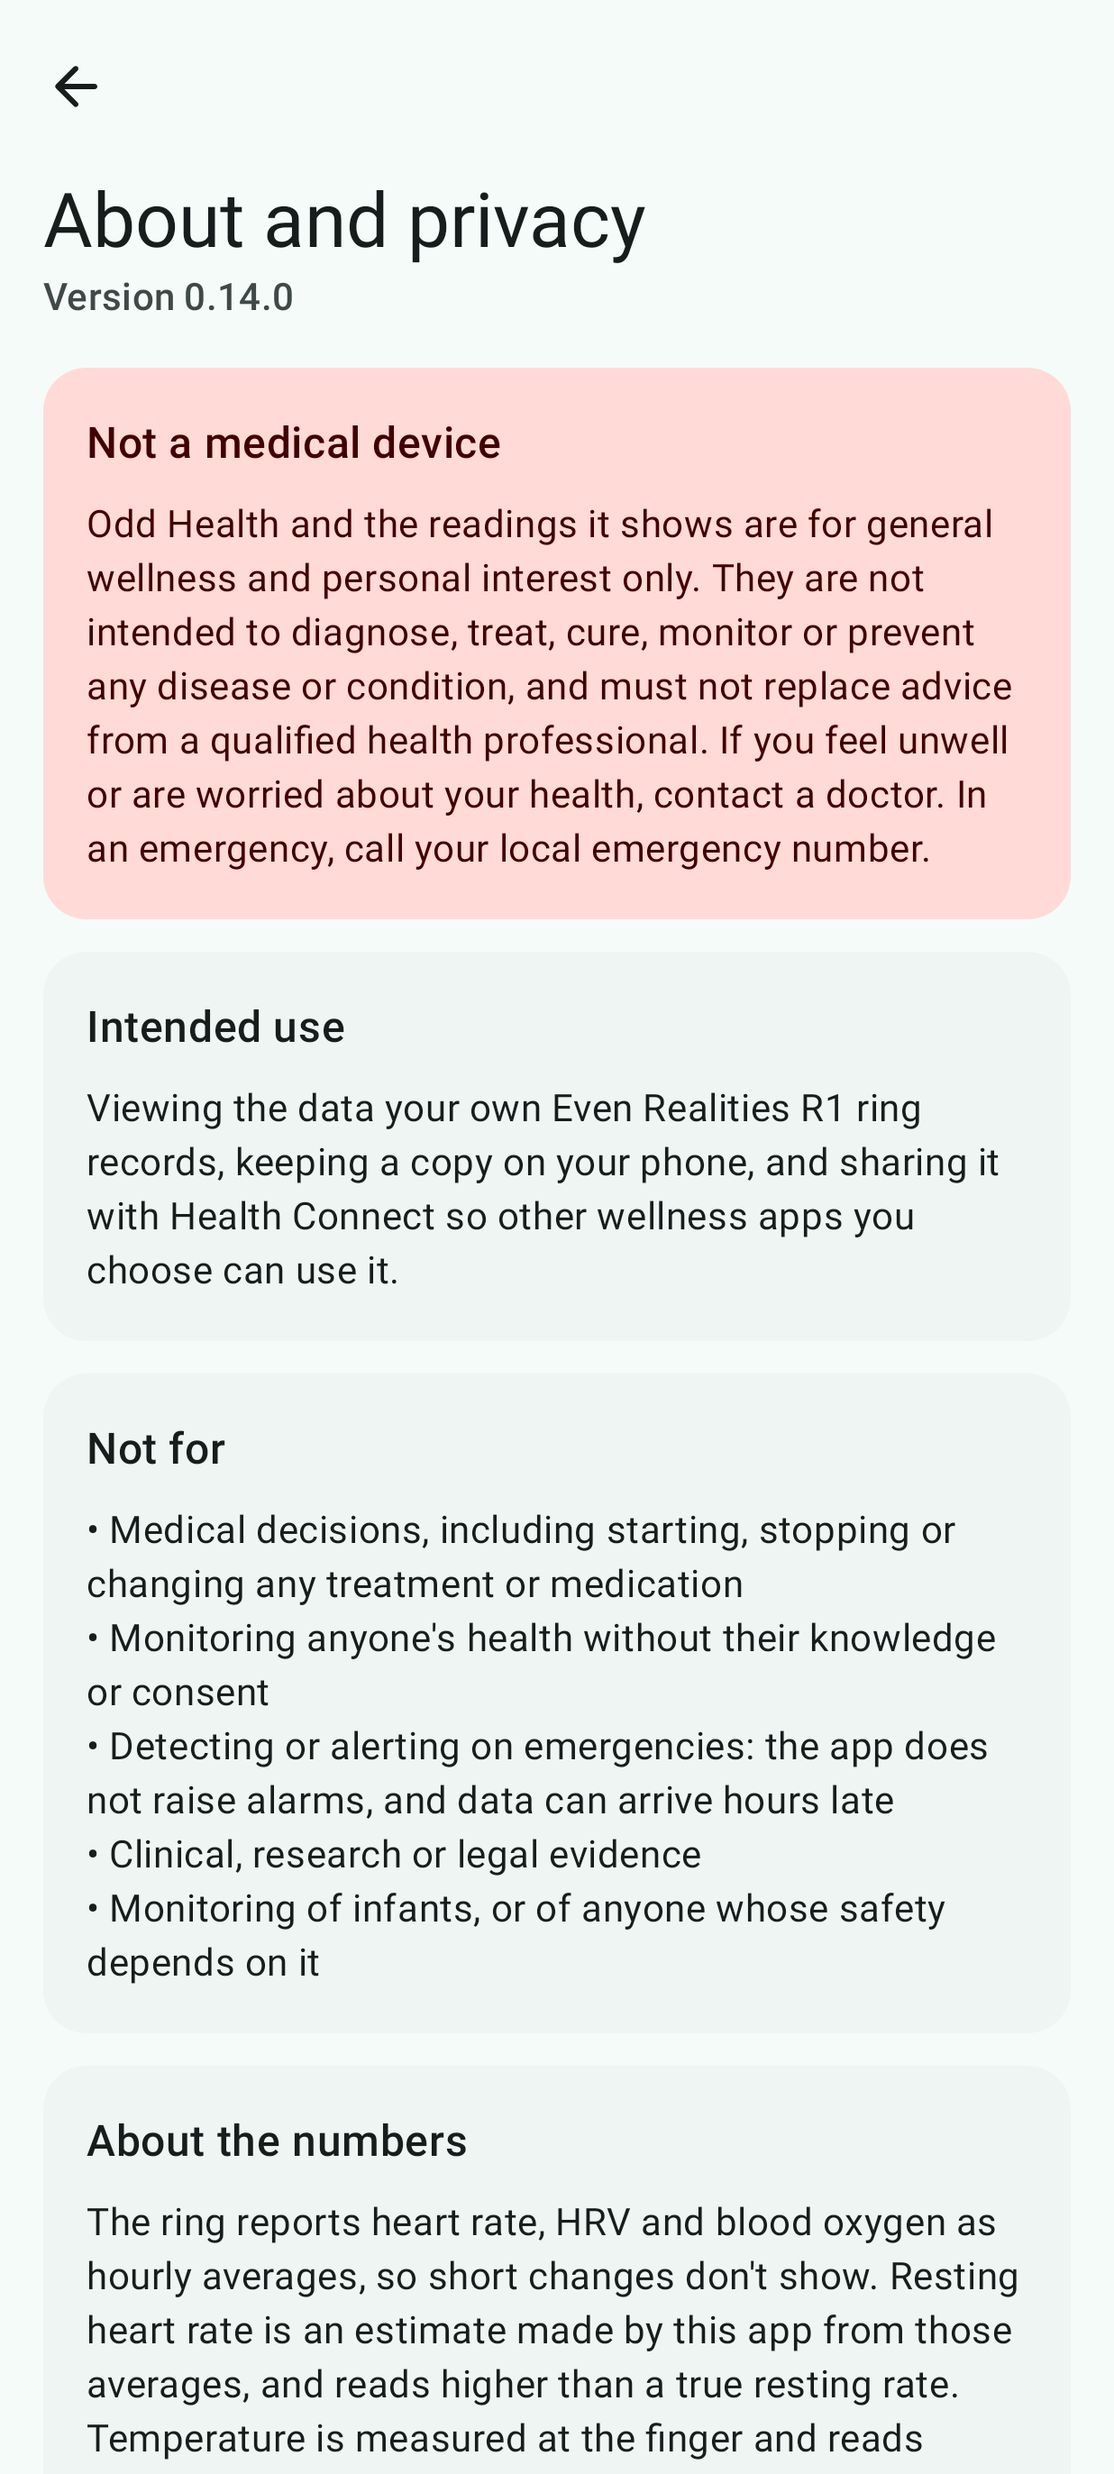
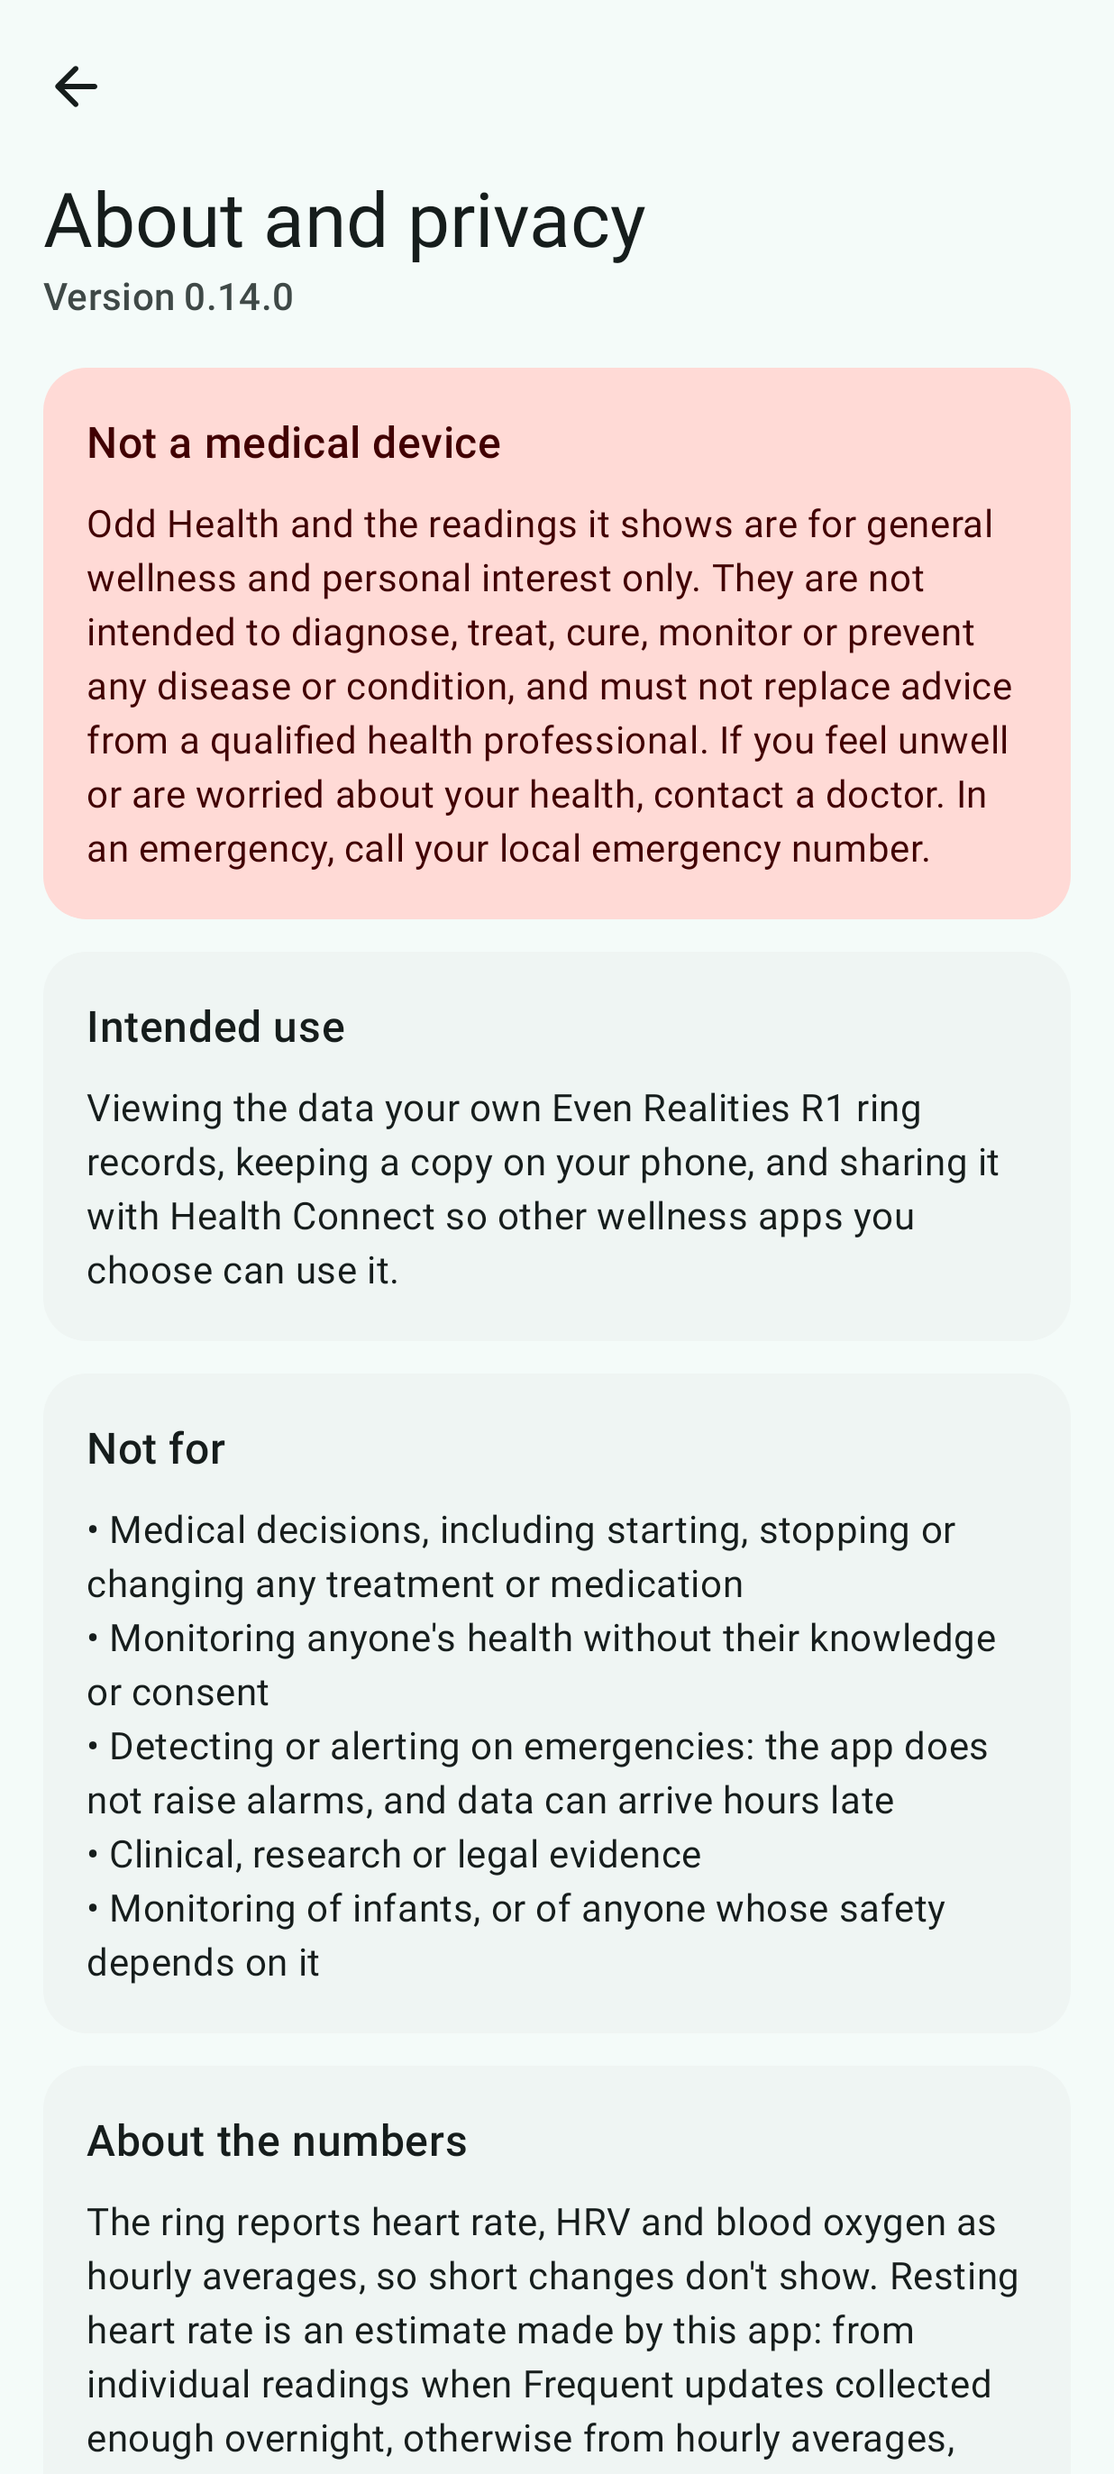
Resting heart rate from individual readings when a night has enough
With Frequent updates on, the ring's ~10-minute readings are stored through
the night. A night with at least 12 of them now gets its resting heart rate
from the lowest average of 3 consecutive readings spanning at most 30
minutes, instead of the lowest hourly average, which runs high. Other nights
keep the hourly method. The estimate records how many readings it used, the
detail screen says which method applied, and saving a reading updates its
night. Disclaimer, user guide, About text and changelog updated.

Claude-Session: https://claude.ai/code/session_01MuCkd15GX21PUvAAYG1tcR

Changed region(s): [[0.0615, 0.929, 0.8916, 0.9909]]

diff --git a/android/core/src/main/kotlin/dev/oddhealth/core/model/RestingHeartRate.kt b/android/core/src/main/kotlin/dev/oddhealth/core/model/RestingHeartRate.kt
@@ -6,8 +6,9 @@ import java.time.ZoneOffset
 
 /**
  * Resting heart rate for one night. The ring does not report one, so this is
- * our estimate: the lowest hourly average heart rate during the main sleep.
- * [start] is the time the sleep ended.
+ * our estimate (see [RestingHeartRateEstimate]). [start] is the time the sleep
+ * ended. [readings] is how many individual readings it came from; 0 means it
+ * came from hourly averages.
  */
 data class RestingHeartRate(
     override val start: Instant,
@@ -15,6 +16,7 @@ data class RestingHeartRate(
     val bpm: Int,
     override val source: DataSource,
     override val version: Long,
+    val readings: Int = 0,
 ) : HealthRecord {
     override val kind get() = RecordKind.RESTING_HEART_RATE
     override val end: Instant get() = start
@@ -24,9 +26,29 @@ object RestingHeartRateEstimate {
     /** Shorter sleeps (naps) don't give a resting heart rate. */
     val MIN_SLEEP: Duration = Duration.ofHours(3)
 
-    /** An hour counts if at least half of it falls inside the sleep. */
-    fun forNight(night: SleepSession, heartRate: List<HourlyVital>): RestingHeartRate? {
+    /** Readings needed during the night to use them instead of hourly averages. */
+    const val MIN_READINGS = 12
+
+    /** Readings averaged together, and the most time they may span (no gaps). */
+    const val WINDOW = 3
+    val WINDOW_SPAN: Duration = Duration.ofMinutes(30)
+
+    /**
+     * With enough individual readings during the main sleep (from Frequent
+     * updates, about every 10 minutes): the lowest average of [WINDOW]
+     * consecutive readings within [WINDOW_SPAN]. Averaging a few readings keeps
+     * one odd reading from setting the result.
+     *
+     * Otherwise: the lowest hourly average during the sleep, which reads higher
+     * because each hour mixes calm and restless minutes.
+     */
+    fun forNight(
+        night: SleepSession,
+        heartRate: List<HourlyVital>,
+        readings: List<HeartRateReading> = emptyList(),
+    ): RestingHeartRate? {
         if (Duration.between(night.start, night.end) < MIN_SLEEP) return null
+        fromReadings(night, readings)?.let { return it }
         val hours = heartRate.filter {
             it.kind == RecordKind.HEART_RATE_HOUR && it.avg > 0 &&
                 overlapSeconds(it, night) >= 1800
@@ -38,6 +60,26 @@ object RestingHeartRateEstimate {
             bpm = lowest.avg,
             source = night.source,
             version = maxOf(night.version, hours.maxOf { it.version }),
+        )
+    }
+
+    private fun fromReadings(night: SleepSession, all: List<HeartRateReading>): RestingHeartRate? {
+        val readings = all
+            .filter { it.bpm > 0 && it.start >= night.start && it.start <= night.end }
+            .distinctBy { it.start }
+            .sortedBy { it.start }
+        if (readings.size < MIN_READINGS) return null
+        val lowest = readings.windowed(WINDOW)
+            .filter { Duration.between(it.first().start, it.last().start) <= WINDOW_SPAN }
+            .minOfOrNull { w -> w.sumOf { it.bpm }.toDouble() / w.size }
+            ?: return null
+        return RestingHeartRate(
+            start = night.end,
+            zone = night.zone,
+            bpm = Math.round(lowest).toInt(),
+            source = night.source,
+            version = maxOf(night.version, readings.maxOf { it.version }),
+            readings = readings.size,
         )
     }
 

diff --git a/android/app/src/main/kotlin/dev/oddhealth/app/data/HealthRepository.kt b/android/app/src/main/kotlin/dev/oddhealth/app/data/HealthRepository.kt
@@ -1,6 +1,7 @@
 package dev.oddhealth.app.data
 
 import dev.oddhealth.core.model.HealthRecord
+import dev.oddhealth.core.model.HeartRateReading
 import dev.oddhealth.core.model.HourlyVital
 import dev.oddhealth.core.model.RecordKind
 import dev.oddhealth.core.model.RestingHeartRateEstimate
@@ -31,15 +32,24 @@ class HealthRepository(private val dao: RecordDao) : SyncLedger, SyncContext {
         val estimates = dao.byKindOnce(RecordKind.SLEEP_SESSION.id).map(RecordCodec::fromRow).filterIsInstance<SleepSession>()
             .filter { it.end.epochSecond !in have }
             .mapNotNull { night ->
-                val hours = dao.overlapping(RecordKind.HEART_RATE_HOUR.id, night.start.epochSecond, night.end.epochSecond)
-                    .map(RecordCodec::fromRow).filterIsInstance<HourlyVital>()
-                RestingHeartRateEstimate.forNight(night, hours)
+                estimate(night)
             }
         return if (estimates.isEmpty()) 0 else dao.upsertNewer(estimates.map(RecordCodec::toRow))
     }
 
+    private suspend fun estimate(night: SleepSession) = RestingHeartRateEstimate.forNight(
+        night,
+        dao.overlapping(RecordKind.HEART_RATE_HOUR.id, night.start.epochSecond, night.end.epochSecond)
+            .map(RecordCodec::fromRow).filterIsInstance<HourlyVital>(),
+        // Readings are instants (end == start); widen by a second so one at the very start counts.
+        dao.overlapping(RecordKind.HEART_RATE_READING.id, night.start.epochSecond - 1, night.end.epochSecond + 1)
+            .map(RecordCodec::fromRow).filterIsInstance<HeartRateReading>(),
+    )
+
     private suspend fun updateRestingHeartRate(saved: List<HealthRecord>) {
-        val relevant = saved.filter { it.kind == RecordKind.SLEEP_SESSION || it.kind == RecordKind.HEART_RATE_HOUR }
+        val relevant = saved.filter {
+            it.kind == RecordKind.SLEEP_SESSION || it.kind == RecordKind.HEART_RATE_HOUR || it.kind == RecordKind.HEART_RATE_READING
+        }
         if (relevant.isEmpty()) return
         // Nights touched by any saved sleep or heart-rate hour, found per day to keep queries small.
         val nights = HashMap<String, SleepSession>()
@@ -48,13 +58,11 @@ class HealthRepository(private val dao: RecordDao) : SyncLedger, SyncContext {
             val to = group.maxOf { it.end }.plusSeconds(86_400).epochSecond
             dao.overlapping(RecordKind.SLEEP_SESSION.id, from, to).map(RecordCodec::fromRow)
                 .filterIsInstance<SleepSession>()
-                .filter { n -> group.any { it.start < n.end && it.end > n.start } }
+                .filter { n -> group.any { it.start <= n.end && it.end >= n.start } }
                 .forEach { nights[it.key] = it }
         }
         val estimates = nights.values.mapNotNull { night ->
-            val hours = dao.overlapping(RecordKind.HEART_RATE_HOUR.id, night.start.epochSecond, night.end.epochSecond)
-                .map(RecordCodec::fromRow).filterIsInstance<HourlyVital>()
-            RestingHeartRateEstimate.forNight(night, hours)
+            estimate(night)
         }
         if (estimates.isNotEmpty()) dao.upsertNewer(estimates.map(RecordCodec::toRow))
     }

diff --git a/android/core/src/test/kotlin/dev/oddhealth/core/CoreTest.kt b/android/core/src/test/kotlin/dev/oddhealth/core/CoreTest.kt
@@ -134,6 +134,34 @@ class CoreTest {
     }
 
     @Test
+    fun restingHeartRateUsesReadingsWhenThereAreEnough() {
+        val start = Instant.parse("2026-11-17T07:00:00Z")
+        val night = SleepSession(start, start.plusSeconds(6 * 3600), cst, emptyList(), null, null, DataSource.RING, 1)
+        val hours = (0L..5L).map { HourlyVital(RecordKind.HEART_RATE_HOUR, start.plusSeconds(it * 3600), cst, 50, 62, 75, DataSource.RING, 1) }
+        fun reading(i: Int, bpm: Int) = HeartRateReading(start.plusSeconds(i * 585L), cst, bpm, DataSource.RING, 2)
+        // 36 readings ~10 minutes apart; one low outlier (40) and a calm stretch of three at 52, 53, 54.
+        val readings = (0 until 36).map { i ->
+            when (i) {
+                5 -> reading(i, 40)
+                20 -> reading(i, 52)
+                21 -> reading(i, 53)
+                22 -> reading(i, 54)
+                else -> reading(i, 60)
+            }
+        }
+        val rhr = dev.oddhealth.core.model.RestingHeartRateEstimate.forNight(night, hours, readings)!!
+        assertEquals(53 to 36, rhr.bpm to rhr.readings) // the outlier alone doesn't win
+
+        // Too few readings: back to hourly averages.
+        val few = dev.oddhealth.core.model.RestingHeartRateEstimate.forNight(night, hours, readings.take(8))!!
+        assertEquals(62 to 0, few.bpm to few.readings)
+
+        // Readings with gaps over 30 minutes between every one: no valid window, hourly again.
+        val sparse = (0 until 12).map { HeartRateReading(start.plusSeconds(it * 1800L), cst, 50, DataSource.RING, 2) }
+        assertEquals(0, dev.oddhealth.core.model.RestingHeartRateEstimate.forNight(night, hours, sparse)!!.readings)
+    }
+
+    @Test
     fun skinBaselineIsMedianOfEarlierNights() {
         fun night(day: Long, c: Double) =
             SkinTemperature(Instant.ofEpochSecond(day * 86400), Instant.ofEpochSecond(day * 86400 + 28800), cst, c, DataSource.RING, 1)

diff --git a/android/app/src/main/kotlin/dev/oddhealth/app/data/RecordCodec.kt b/android/app/src/main/kotlin/dev/oddhealth/app/data/RecordCodec.kt
@@ -24,7 +24,7 @@ import java.time.ZoneOffset
  * | activity        | steps   | active kcal| total kcal|         |                         |
  * | sleep           | score+1 | effic.+1   |           |         | stage:startSec:endSec;… |
  * | skin temp       |         |            |           | celsius |                         |
- * | resting HR      | bpm     |            |           |         |                         |
+ * | resting HR      | bpm     | readings   |           |         |                         |
  *
  * Score and efficiency are stored plus one so 0 can mean "none".
  */
@@ -41,7 +41,7 @@ object RecordCodec {
                 text = r.stages.joinToString(";") { "${it.type.ordinal}:${it.start.epochSecond}:${it.end.epochSecond}" },
             )
             is SkinTemperature -> base.copy(real = r.celsius)
-            is RestingHeartRate -> base.copy(a = r.bpm)
+            is RestingHeartRate -> base.copy(a = r.bpm, b = r.readings)
         }
     }
 
@@ -66,7 +66,7 @@ object RecordCodec {
                 source = source, version = row.version,
             )
             RecordKind.SKIN_TEMPERATURE -> SkinTemperature(start, end, zone, row.real ?: 0.0, source, row.version)
-            RecordKind.RESTING_HEART_RATE -> RestingHeartRate(start, zone, row.a, source, row.version)
+            RecordKind.RESTING_HEART_RATE -> RestingHeartRate(start, zone, row.a, source, row.version, readings = row.b)
         }
     }
 }

diff --git a/android/app/src/test/kotlin/dev/oddhealth/app/DataTest.kt b/android/app/src/test/kotlin/dev/oddhealth/app/DataTest.kt
@@ -93,6 +93,14 @@ class DataTest {
         repo.save(listOf(HourlyVital(RecordKind.HEART_RATE_HOUR, start.plusSeconds(2 * 3600), cst, 45, 52, 60, DataSource.RING, 3)))
         assertEquals(52, (repo.byKind(RecordKind.RESTING_HEART_RATE).first().single() as dev.oddhealth.core.model.RestingHeartRate).bpm)
         assertEquals(0, repo.backfillRestingHeartRate()) // already has one
+
+        // Readings every ~10 minutes through the night replace the hourly estimate.
+        val readings = (0 until 30).map {
+            dev.oddhealth.core.model.HeartRateReading(start.plusSeconds(it * 585L), cst, if (it in 10..12) 47 else 58, DataSource.RING, 4)
+        }
+        repo.save(readings)
+        val rhr2 = repo.byKind(RecordKind.RESTING_HEART_RATE).first().single() as dev.oddhealth.core.model.RestingHeartRate
+        assertEquals(47 to 30, rhr2.bpm to rhr2.readings)
     }
 
     /** Local check against a real export: ODD_EXPORT=/path/to.zip; prints a summary only. */
@@ -131,7 +139,7 @@ class DataTest {
         override fun steps(n: Int) = "$n"
         override fun stepsUnit() = "steps"
         override fun restingLabel() = "resting"
-        override fun restingDetail() = "est"
+        override fun restingDetail(readings: Int) = "est $readings"
         override fun kcal(n: Int, active: Int) = "$n"
     }
 }

diff --git a/android/app/src/main/kotlin/dev/oddhealth/app/ui/model/Mapping.kt b/android/app/src/main/kotlin/dev/oddhealth/app/ui/model/Mapping.kt
@@ -73,7 +73,8 @@ interface Words {
     fun steps(n: Int): String
     fun stepsUnit(): String
     fun restingLabel(): String
-    fun restingDetail(): String
+    /** [readings]: how many readings the estimate came from; 0 = hourly averages. */
+    fun restingDetail(readings: Int): String
     fun kcal(n: Int, active: Int): String
 }
 
@@ -172,7 +173,7 @@ object UiMapping {
                     vital = v,
                     rows = listOfNotNull(
                         day.resting?.takeIf { metric == Metric.HEART_RATE }?.let {
-                            DetailRow(w.restingLabel(), "${it.bpm} $unit", w.restingDetail(), day.mark(it))
+                            DetailRow(w.restingLabel(), "${it.bpm} $unit", w.restingDetail(it.readings), day.mark(it))
                         },
                     ) + (hourRows + liveRows).sortedByDescending { it.first }.map { it.second },
                     appOnlyNote = if (metric == Metric.HEART_RATE) w.hrNote() else null,

diff --git a/android/app/src/main/kotlin/dev/oddhealth/app/ui/AppViewModel.kt b/android/app/src/main/kotlin/dev/oddhealth/app/ui/AppViewModel.kt
@@ -103,7 +103,8 @@ class AppViewModel(app: Application) : AndroidViewModel(app) {
         override fun steps(n: Int) = s(R.string.n_steps, n)
         override fun stepsUnit() = s(R.string.unit_steps)
         override fun restingLabel() = s(R.string.resting_hr)
-        override fun restingDetail() = s(R.string.resting_hr_detail)
+        override fun restingDetail(readings: Int) =
+            if (readings > 0) s(R.string.resting_hr_detail_readings, readings) else s(R.string.resting_hr_detail)
         override fun kcal(n: Int, active: Int) = s(R.string.kcal_line, n, active)
     }
 

diff --git a/DISCLAIMER.md b/DISCLAIMER.md
@@ -39,9 +39,11 @@ anything this app shows.
 - **Coarse resolution.** The ring stores heart rate, HRV and blood oxygen as
   hourly minimum, average and maximum, and activity in 10-minute blocks.
   Short events do not show.
-- **Estimates.** Resting heart rate is calculated by this app as the lowest
-  hourly average during sleep, so it reads higher than a true resting heart
-  rate. Sleep stages, sleep score and efficiency come from the ring's own
+- **Estimates.** Resting heart rate is calculated by this app, not measured
+  by the ring: the lowest 30-minute average of individual readings during
+  sleep when Frequent updates collected enough of them, otherwise the lowest
+  hourly average, which reads higher. Readings are about 10 minutes apart, so
+  neither is a true resting heart rate. Sleep stages, sleep score and efficiency come from the ring's own
   algorithms, which are not validated by this project.
 - **Finger temperature.** Temperature is measured at the finger, about 1 °C
   below core body temperature, and varies with room temperature and fit. It is

diff --git a/docs/user-guide.md b/docs/user-guide.md
@@ -82,8 +82,12 @@ Health Connect about 20 seconds after it arrives.
 
 - Heart rate, HRV and blood oxygen arrive as **hourly** averages; the ring does
   not store anything finer.
-- **Resting heart rate** is the app's estimate: the lowest hourly average during
-  your main sleep. It reads higher than a true resting rate.
+- **Resting heart rate** is the app's estimate for each night. With
+  **Frequent updates** on overnight, it is the lowest average of three
+  consecutive readings (about 30 minutes) during your main sleep, once the
+  night has at least 12 readings. Otherwise it is the lowest hourly average,
+  which reads a few bpm higher. The heart-rate detail says which one a night
+  used.
 - **Temperature** is measured at the finger, about 1 °C below core temperature.
   Health Connect gets it as body temperature (location: finger), and as skin
   temperature change from your own 30-night baseline once there are at least

diff --git a/CHANGELOG.md b/CHANGELOG.md
@@ -5,6 +5,12 @@ Versions follow `MAJOR.MINOR.PATCH`. Releases are tagged `vX.Y.Z`; see
 
 ## Unreleased
 
+- Resting heart rate: with Frequent updates on overnight, it is now the lowest
+  30-minute average of individual readings during sleep (at least 12
+  readings; no gaps over 30 minutes in the window), which is closer to a true
+  resting rate than the lowest hourly average. Other nights keep the hourly
+  method; the heart-rate detail says which was used.
+
 - Update check: finds the newest release that has its APK, instead of only
   the newest release. While a just-published release was still building, the
   app reported "latest version" and missed the previous one; it now offers the
